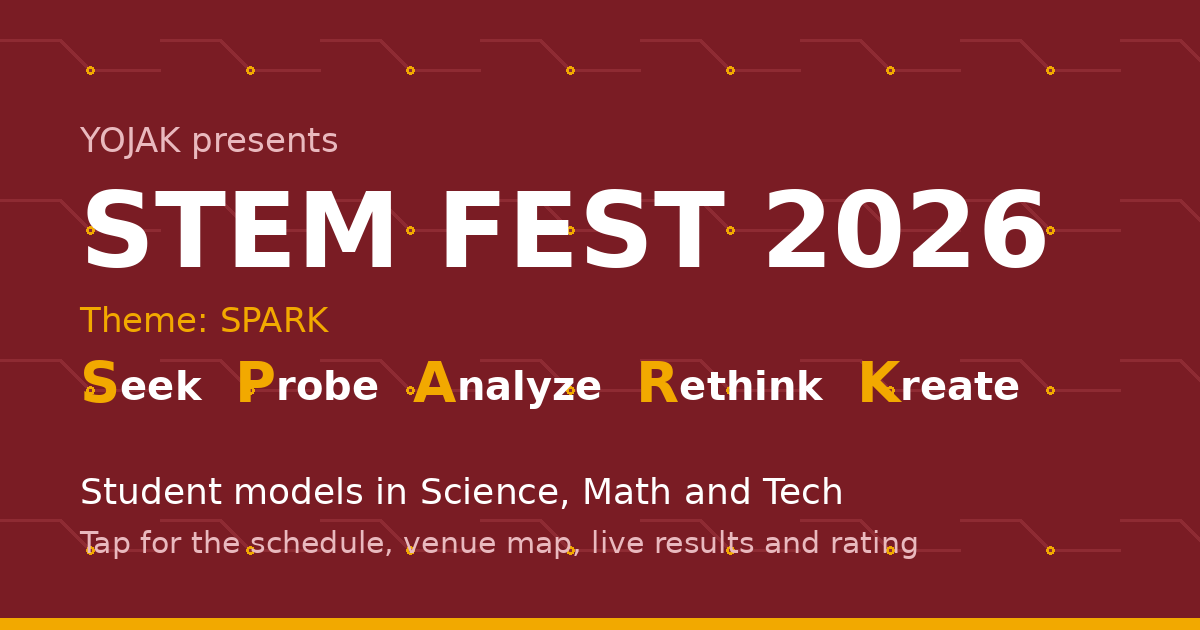
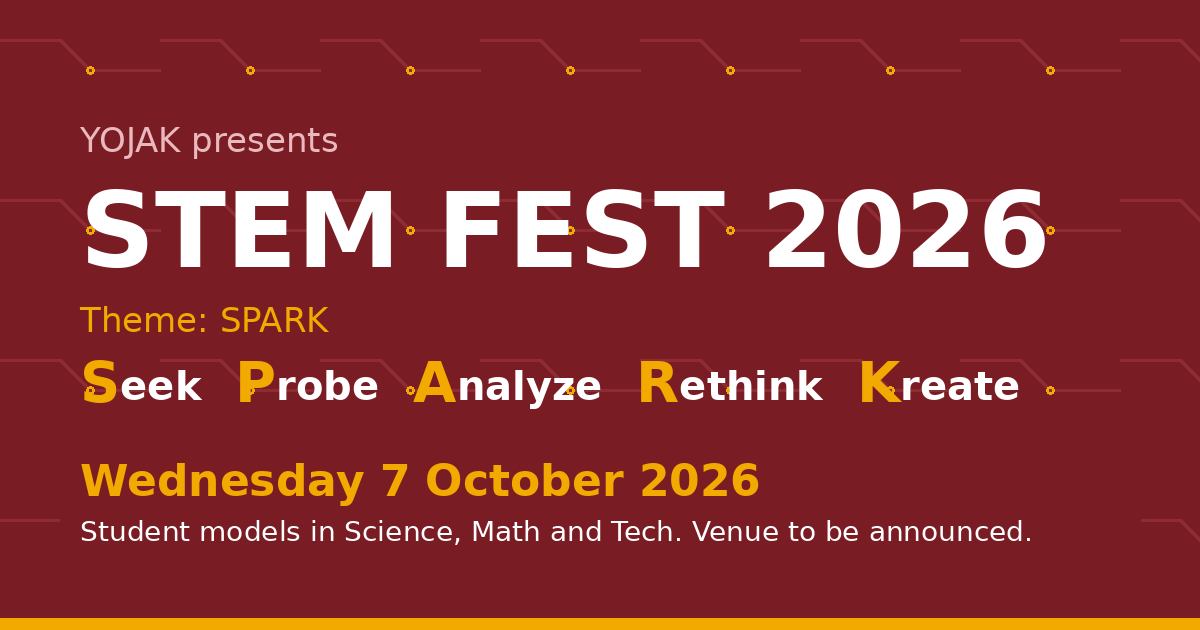
Add files via upload

Changed region(s): [[0.0617, 0.7238, 0.8633, 0.9048]]

diff --git a/index.html b/index.html
@@ -7,9 +7,9 @@
 <title>STEM FEST 2026 by YOJAK</title>
 <!-- ===== Link preview (what people see when the link is shared on WhatsApp) =====
      Edit the three lines below whenever the date or venue changes, then upload again. -->
-<meta name="description" content="STEM FEST 2026 by YOJAK. Student models in Science, Math and Tech. Tap for the schedule, venue map, live results and rating.">
-<meta property="og:title" content="STEM FEST 2026 by YOJAK">
-<meta property="og:description" content="Student models in Science, Math and Tech. Tap for the schedule, venue map, live results and rating.">
+<meta name="description" content="STEM FEST 2026 by YOJAK. Wednesday 7 October 2026. Venue is yet to be announced. Student models in Science, Math and Tech.">
+<meta property="og:title" content="STEM FEST 2026 by YOJAK, 7 October">
+<meta property="og:description" content="Wednesday 7 October 2026. Venue is yet to be announced. Student models in Science, Math and Tech. Tap for the schedule, venue map and live results.">
 <meta property="og:image" content="https://yojak-org.github.io/stemfest2026/preview.png">
 <meta property="og:url" content="https://yojak-org.github.io/stemfest2026/">
 <meta property="og:type" content="website">
@@ -460,7 +460,9 @@ body.projector .top,body.projector .tabs,body.projector #notice{display:none}
 
 /* ===== Redesign: responsive layout, floating STEM icons, journey ===== */
 .floaters{position:absolute;inset:0;z-index:-1;pointer-events:none;overflow:hidden;--px:0;--py:0}
-.fl{position:absolute;left:var(--x);top:var(--y);width:calc(var(--s) * var(--k,1));height:calc(var(--s) * var(--k,1));color:var(--c,var(--gold));opacity:var(--o,.3);transform:translate(calc(var(--px) * var(--d) * 1px),calc(var(--py) * var(--d) * 1px));transition:transform .7s cubic-bezier(.2,.8,.2,1)}
+.fl{position:absolute;left:var(--x);top:var(--y);width:calc(var(--s) * var(--k,1));height:calc(var(--s) * var(--k,1));color:var(--c,var(--gold));opacity:var(--o,.3);transform:translate(var(--mx,0px),var(--my,0px)) scale(var(--sc,1));transition:transform .45s cubic-bezier(.2,.8,.2,1),opacity .45s}
+.fl.near{opacity:calc(var(--o) * 2)}
+.fl.near svg{animation-duration:2.6s}
 .fl svg{width:100%;height:100%;display:block;animation:drift var(--t,9s) ease-in-out infinite;animation-delay:var(--dl,0s)}
 .fl.w{display:none}
 .fl.white{--c:#fff}
@@ -553,6 +555,7 @@ body.projector .top,body.projector .tabs,body.projector #notice{display:none}
   .sw,[data-reveal]{opacity:1!important;transform:none!important}
   .sparks{display:none}
   .fl{transform:none!important}
+  .fest-plate,.fest-plate::after{animation:none!important}
 }
 
 /* ===== Project ID badges ===== */
@@ -682,6 +685,29 @@ body.projector #bgfx{display:none}
 .env-sheet{display:flex;flex-direction:column;align-items:center;gap:6mm;margin-bottom:10mm}
 .env-sheet > svg{width:170mm;height:136mm;max-width:100%;height:auto;background:#fff}
 
+
+/* ===== Hero: brand bar and the big SPARK logo ===== */
+.brandbar{position:absolute;top:14px;right:16px;z-index:2;display:flex;gap:8px;align-items:center}
+.brandbar .bl{height:46px;display:flex;align-items:center;justify-content:center;background:#fff;border-radius:12px;padding:5px 10px}
+.brandbar .bl img{height:36px;width:auto;max-width:104px;object-fit:contain;display:block}
+.brandbar .bl span{font-family:'Baloo 2',sans-serif;font-weight:800;font-size:17px;color:var(--maroon);line-height:1}
+.hero.v2{text-align:center;padding-top:74px}
+.hero.v2 .hero-in{max-width:760px;margin:0 auto}
+.hero.v2 .presents{opacity:.9}
+.hero.v2 .facts{display:inline-grid;text-align:left;justify-self:center}
+.hero.v2 .hero-actions,.hero.v2 .invite-acts{justify-content:center}
+.hero.v2 .tagline{max-width:34ch;margin:0 auto}
+.hero.v2 .invite{max-width:560px;margin-left:auto;margin-right:auto}
+.hero.v2 .title{margin:10px auto 8px}
+.fest-hero{position:relative;display:grid;place-items:center;margin:14px 0 16px}
+.fest-hero::before{content:"";position:absolute;width:min(78vw,520px);height:min(42vw,260px);border-radius:50%;background:radial-gradient(circle,rgba(242,169,0,.5),rgba(242,169,0,0) 65%);animation:glowPulse 4.5s ease-in-out infinite;z-index:0}
+.fest-plate{position:relative;z-index:1;background:#fff;border-radius:26px;padding:16px 24px;overflow:hidden;box-shadow:0 18px 40px -22px rgba(0,0,0,.6);animation:floaty 6s ease-in-out infinite}
+.fest-plate img{max-height:min(34vw,180px);max-width:min(80vw,440px);width:auto;display:block}
+.fest-plate::after{content:"";position:absolute;top:-60%;left:-70%;width:45%;height:220%;background:linear-gradient(100deg,transparent,rgba(255,255,255,.75),transparent);transform:rotate(14deg);animation:shine 6s ease-in-out infinite}
+@keyframes glowPulse{0%,100%{transform:scale(.92);opacity:.75}50%{transform:scale(1.06);opacity:1}}
+@keyframes floaty{0%,100%{transform:translateY(0)}50%{transform:translateY(-8px)}}
+@keyframes shine{0%{left:-70%}55%{left:130%}100%{left:130%}}
+@media (max-width:420px){ .brandbar .bl{height:38px;padding:4px 8px} .brandbar .bl img{height:29px;max-width:84px} .hero.v2{padding-top:64px} }
 
 /* ===== Invitation countdown ===== */
 .invite{margin-top:24px;background:rgba(255,255,255,.08);border:1px solid rgba(255,255,255,.22);border-radius:20px;padding:16px 16px 18px}
@@ -1314,16 +1340,38 @@ const FLOATS = [
   ['magnet', 64, 44, 40, .22, 24, 9, -14, 'w r'], ['pi', 76, 30, 38, .26, 20, 12, 8, 'w r white'], ['microscope', 50, 6, 42, .16, 12, 13, -6, 'w r']
 ];
 function floaters() {
-  return `<div class="floaters" id="floaters" aria-hidden="true">${FLOATS.map(([n, x, y, sz, o, d, t, r, c], i) => `<span class="fl ${c}" style="--x:${x}%;--y:${y}%;--s:${sz}px;--o:${o};--d:${d};--t:${t}s;--r:${r}deg;--dl:-${(i * 1.7).toFixed(1)}s">${stemSvg(n)}</span>`).join('')}</div>`;
+  return `<div class="floaters" id="floaters" aria-hidden="true">${FLOATS.map(([n, x, y, sz, o, d, t, r, c], i) => `<span class="fl ${c}" data-depth="${d}" style="--x:${x}%;--y:${y}%;--s:${sz}px;--o:${o};--t:${t}s;--r:${r}deg;--dl:-${(i * 1.7).toFixed(1)}s">${stemSvg(n)}</span>`).join('')}</div>`;
 }
 let scrollHandler = null;
+/* Each icon reacts on its own: only the ones near the pointer move away and grow */
 function bindParallax() {
   const hero = $('.hero'), fl = $('#floaters'); if (!hero || !fl || REDUCED) return;
+  const els = $$('.fl', fl); if (!els.length) return;
+  const rest = e => { e.style.setProperty('--mx', '0px'); e.style.setProperty('--my', '0px'); e.style.setProperty('--sc', '1'); e.classList.remove('near'); };
   if (window.matchMedia('(pointer:fine)').matches) {
-    hero.addEventListener('pointermove', e => { const r = hero.getBoundingClientRect(); fl.style.setProperty('--px', (((e.clientX - r.left) / r.width) - .5) * 2); fl.style.setProperty('--py', (((e.clientY - r.top) / r.height) - .5) * 2); });
-    hero.addEventListener('pointerleave', () => { fl.style.setProperty('--px', 0); fl.style.setProperty('--py', 0); });
+    const RADIUS = 190;
+    hero.addEventListener('pointermove', ev => {
+      const hr = hero.getBoundingClientRect();
+      const px = ev.clientX - hr.left, py = ev.clientY - hr.top;
+      els.forEach(e => {
+        const cx = e.offsetLeft + e.offsetWidth / 2, cy = e.offsetTop + e.offsetHeight / 2;
+        const dx = px - cx, dy = py - cy, dist = Math.hypot(dx, dy) || 1;
+        if (dist < RADIUS) {
+          const f = 1 - dist / RADIUS;                  /* 0 far away, 1 right on it */
+          const k = (+e.dataset.depth || 16) * f * 1.1;
+          e.style.setProperty('--mx', (-dx / dist * k).toFixed(1) + 'px');
+          e.style.setProperty('--my', (-dy / dist * k).toFixed(1) + 'px');
+          e.style.setProperty('--sc', (1 + f * 0.4).toFixed(3));
+          e.classList.add('near');
+        } else if (e.classList.contains('near')) rest(e);
+      });
+    });
+    hero.addEventListener('pointerleave', () => els.forEach(rest));
   } else {
-    scrollHandler = () => fl.style.setProperty('--py', Math.min(window.scrollY / 160, 3));
+    scrollHandler = () => {
+      const y = Math.min(window.scrollY / 150, 3);
+      els.forEach(e => e.style.setProperty('--my', (y * (+e.dataset.depth || 16) * 0.35).toFixed(1) + 'px'));
+    };
     window.addEventListener('scroll', scrollHandler, { passive: true });
   }
 }
@@ -1457,6 +1505,12 @@ function journey() {
   return `<section class="block" data-reveal><h2>Your day at STEM FEST</h2><ol class="journey">${steps.map((x, i) => `<li class="jstep ${x.state || ''}"><span class="jn">${i + 1}</span><div><h3>${esc(x.t)}</h3><p>${esc(x.d)}</p><a href="${x.href}">${icon(x.ic)}${esc(x.cta)}</a></div></li>`).join('')}</ol></section>`;
 }
 
+function brandBar() {
+  const s = S.data.settings; const yl = logoSrc(s.yojak_logo); const pl = partnerList();
+  const chip = (src, name) => `<span class="bl">${src ? `<img src="${esc(src)}" alt="${esc(name)}" onerror="this.replaceWith(Object.assign(document.createElement('span'),{textContent:'${esc(name).replace(/'/g, '')}'}))">` : `<span>${esc(name)}</span>`}</span>`;
+  return `<div class="brandbar">${chip(yl, 'YOJAK')}${pl.map(p => chip(p.logo, p.name || 'Partner')).join('')}</div>`;
+}
+
 function linksBlock() {
   const links = (S.data.links || []).filter(l => l.label && l.url);
   if (!links.length) return '';
@@ -1483,13 +1537,12 @@ VIEWS.home = () => {
   const map = s.map_link ? `<a class="btn btn-gold" href="${esc(s.map_link)}" target="_blank" rel="noopener">${icon('pin')}Open in Maps</a>` : '';
   const open = toBool(s.voting_open);
   const val = (v, fb) => isTbd(v) ? `<dd class="tbd">${esc(fb)}</dd>` : `<dd>${esc(v)}</dd>`;
-  const logoChip = (src, name) => src ? `<img src="${esc(src)}" alt="${esc(name)}" onerror="this.outerHTML='<span class=&quot;lr-text&quot;>${esc(name).replace(/'/g, '')}</span>'">` : `<span class="lr-text">${esc(name)}</span>`;
   const dateTxt = parseDate(s.event_date) ? fmtDate(s.event_date) : '';
   return {
     html: `
-    <section class="hero v2">${floaters()}<div class="wrap"><div class="hero-in">
+    <section class="hero v2">${floaters()}${brandBar()}<div class="wrap"><div class="hero-in">
       <p class="presents">YOJAK presents</p>
-      <h1 class="title">${esc(s.event_name || 'STEM FEST')}</h1>
+      ${fl ? `<div class="fest-hero"><div class="fest-plate"><img src="${esc(fl)}" alt="${esc(s.event_name || 'STEM FEST')}" onerror="this.closest('.fest-hero').outerHTML='<h1 class=&quot;title&quot;>${esc(s.event_name || 'STEM FEST')}</h1>'"></div></div><h1 class="sr">${esc(s.event_name || 'STEM FEST')}</h1>` : `<h1 class="title">${esc(s.event_name || 'STEM FEST')}</h1>`}
       ${s.tagline ? `<p class="tagline">${esc(s.tagline)}</p>` : ''}
       <dl class="facts">
         <div><dt>Date</dt>${dateTxt ? `<dd>${esc(dateTxt)}</dd>` : `<dd class="tbd">To be announced</dd>`}</div>
@@ -1498,7 +1551,6 @@ VIEWS.home = () => {
       </dl>
       ${heroTimer()}
       <div class="hero-actions">${map}<a class="btn btn-outline-light" href="#/schedule">See the schedule</a></div>
-      <div class="hero-logos">${logoChip(yl, 'YOJAK')}${pl.map(p => logoChip(p.logo, p.name || 'Partner')).join('')}${fl ? logoChip(fl, s.event_name || 'STEM FEST') : ''}</div>
     </div></div></section>
     <div class="wrap">
       ${s.welcome_note ? `<section class="card welcome-card"><h2>Welcome</h2><p>${esc(s.welcome_note)}</p></section>` : ''}
